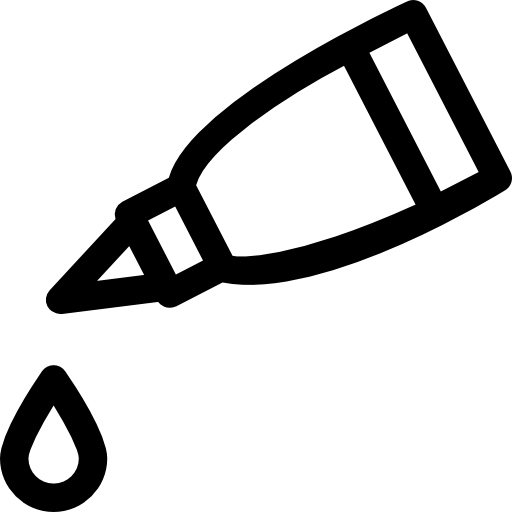
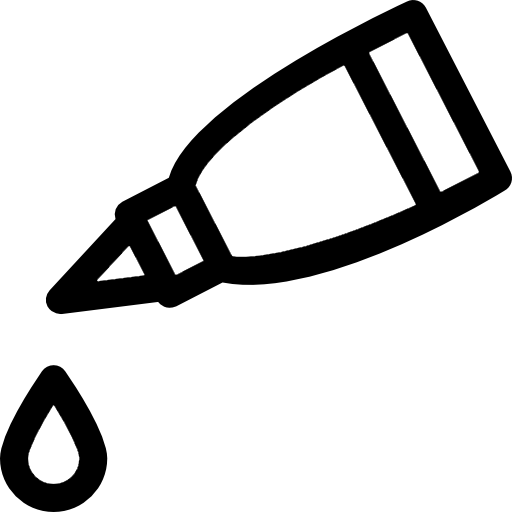
y

diff --git a/m0_COMPOSER/UIWpf/Visualisers/ZoomScrollViewBasedVisualiserBase.cs b/m0_COMPOSER/UIWpf/Visualisers/ZoomScrollViewBasedVisualiserBase.cs
@@ -98,7 +98,7 @@ namespace m0_COMPOSER.UIWpf.Visualisers
             PenDown,
             Eraser,
             Glue,
-            Scissors
+            Razor
         }
 
         protected CursorStateEnum CurrentCursorState;
@@ -243,7 +243,7 @@ namespace m0_COMPOSER.UIWpf.Visualisers
                     SetChecked(GlueButton, true);
                     break;
 
-                case CursorStateEnum.Scissors:
+                case CursorStateEnum.Razor:
 
                     SetChecked(RazorButton, true);
                     break;
@@ -279,6 +279,14 @@ namespace m0_COMPOSER.UIWpf.Visualisers
                 case CursorStateEnum.PenDown:
                 case CursorStateEnum.PenUp:
                     WpfUtil.SetCursorFromResource("/m0;component/_resources/basic/pen.cur");
+                    break;
+
+                case CursorStateEnum.Glue:                
+                    WpfUtil.SetCursorFromResource("/m0;component/_resources/basic/glue.cur");
+                    break;
+
+                case CursorStateEnum.Razor:
+                    WpfUtil.SetCursorFromResource("/m0;component/_resources/basic/razor.cur");
                     break;
             }
         }

diff --git a/m0_COMPOSER/UIWpf/Visualisers/SongVisualiser.xaml.cs b/m0_COMPOSER/UIWpf/Visualisers/SongVisualiser.xaml.cs
@@ -458,7 +458,7 @@ namespace m0_COMPOSER.UIWpf.Visualisers
 
         protected void RazorButton_Click(object sender, RoutedEventArgs e)
         {
-            SetCursorMode(CursorStateEnum.Scissors);
+            SetCursorMode(CursorStateEnum.Razor);
         }
 
         protected override void VertexChange(object sender, VertexChangeEventArgs e)
